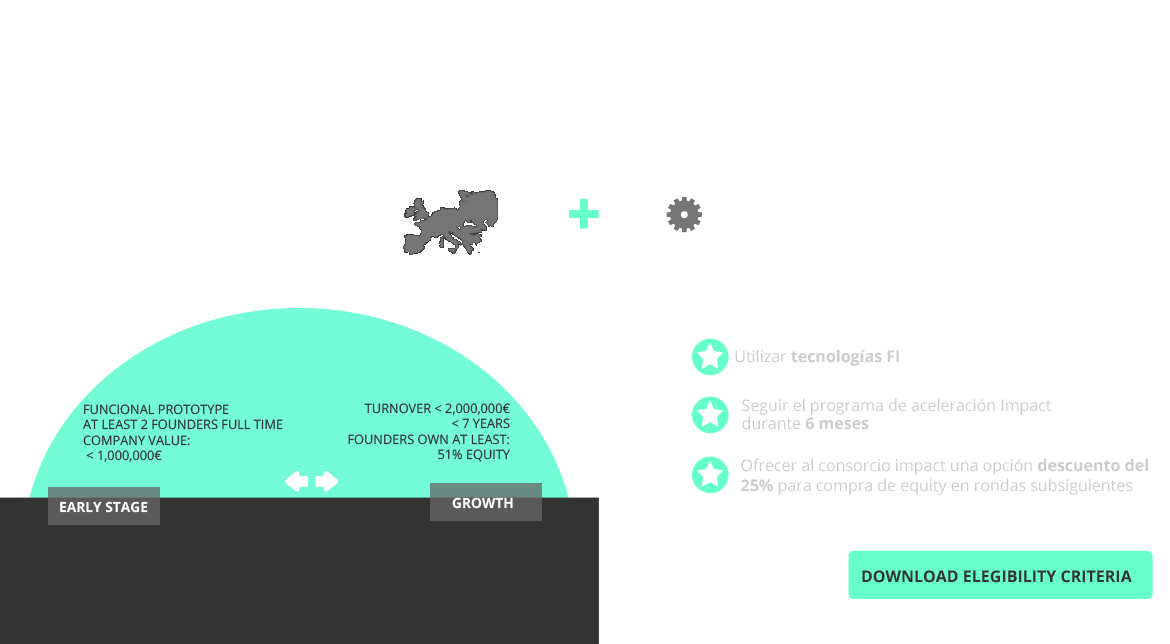
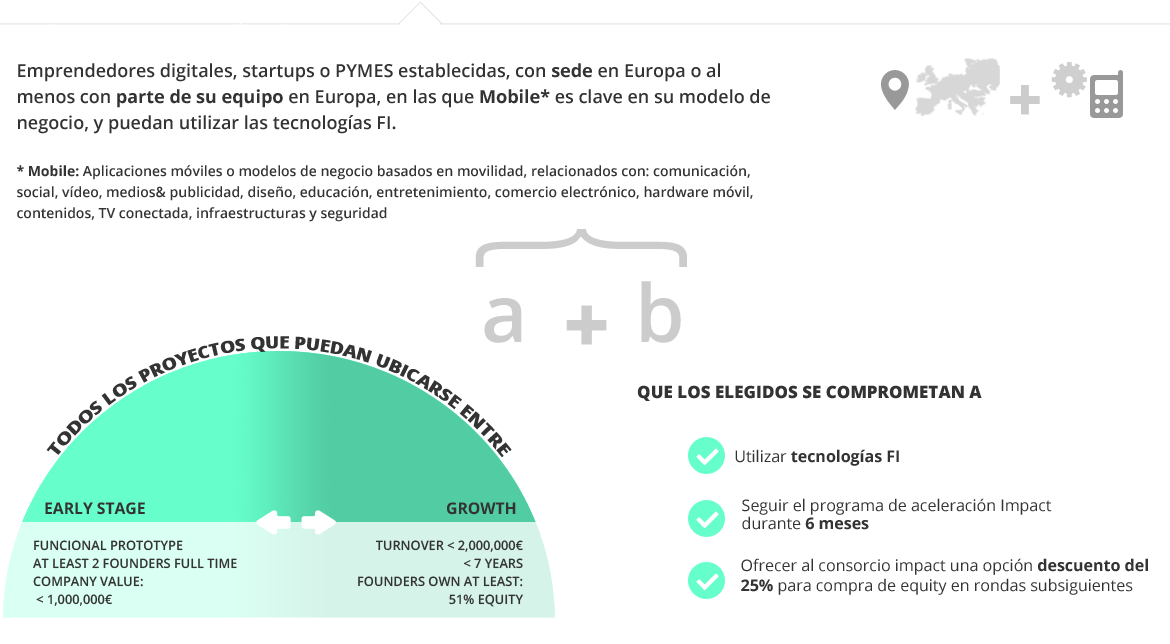
Ajustes en las 2 primeras diapos

diff --git a/_includes/footer.html b/_includes/footer.html
@@ -27,3 +27,13 @@
 <!--script src="custom_components/custom/js/google.maps.api.v3.js"></script-->
 <script src="custom_components/custom/js/viewport-units-buggyfill.js"></script>
 <script src="js/scripts.js"></script>
+
+<script>
+  (function(i,s,o,g,r,a,m){i['GoogleAnalyticsObject']=r;i[r]=i[r]||function(){
+  (i[r].q=i[r].q||[]).push(arguments)},i[r].l=1*new Date();a=s.createElement(o),
+  m=s.getElementsByTagName(o)[0];a.async=1;a.src=g;m.parentNode.insertBefore(a,m)
+  })(window,document,'script','//www.google-analytics.com/analytics.js','ga');
+
+  ga('create', 'UA-52687448-1', 'auto');
+  ga('send', 'pageview');
+</script>

diff --git a/_includes/04.how-it-works.html b/_includes/04.how-it-works.html
@@ -22,7 +22,7 @@
 							<div class="row">
 								<div class="col-md-12">
 									<figure>
-										<img src="/img/diapos/diapositiva.10a.blanco.png" class="img-responsive" alt="Diapositiva">
+										<img src="/img/diapos/diapositiva.10.png" class="img-responsive" alt="Diapositiva">
 									</figure>
 								</div>
 							</div>

diff --git a/_includes/08.spaces.html b/_includes/08.spaces.html
@@ -15,5 +15,9 @@
 			</div>
 		</div>
 	</div>
-	<img src="img/img.map.png" class="img-responsive" alt="Mapa">
+
+
+	<iframe src="https://mapsengine.google.com/map/embed?mid=zUpZHbJQlzV4.kljpWaeUiW9I" width="100%" height="300"></iframe>
+
+
 </section>
